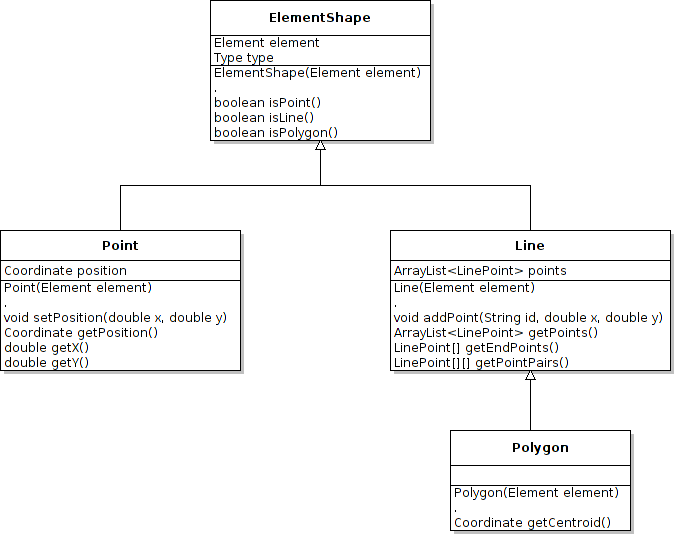
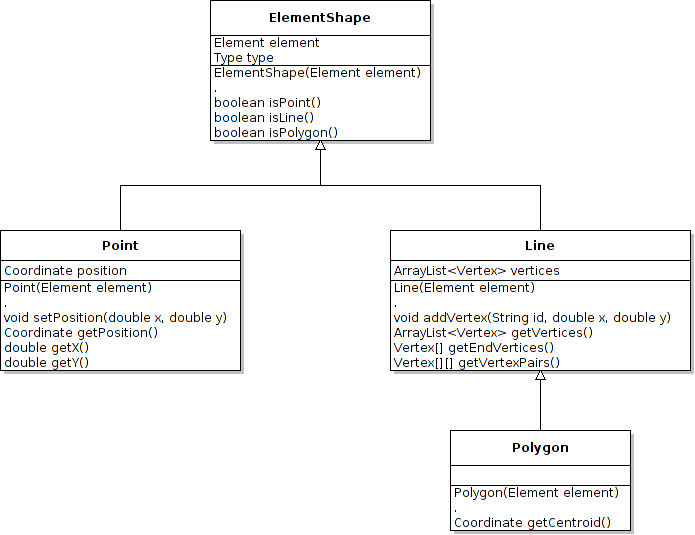
Clean up

diff --git a/src/org/graphstream/geography/Line.java b/src/org/graphstream/geography/Line.java
@@ -49,7 +49,7 @@ public class Line extends ElementShape {
 	/**
 	 * The list of points forming the line.
 	 */
-	protected ArrayList<Vertex> points;
+	protected ArrayList<Vertex> vertices;
 
 	/**
 	 * Instantiate a new line.
@@ -61,7 +61,7 @@ public class Line extends ElementShape {
 		super(element);
 
 		this.type = Type.LINE;
-		this.points = new ArrayList<Vertex>();
+		this.vertices = new ArrayList<Vertex>();
 	}
 
 	/**
@@ -74,13 +74,13 @@ public class Line extends ElementShape {
 	 * @param y
 	 *            The y-axis coordinate of the new point.
 	 */
-	public void addPoint(String id, double x, double y) {
+	public void addVertex(String id, double x, double y) {
 
-		Vertex point = new Vertex(x, y);
+		Vertex vertex = new Vertex(x, y);
 
-		point.setId(id);
+		vertex.setId(id);
 
-		this.points.add(point);
+		this.vertices.add(vertex);
 	}
 
 	/**
@@ -88,9 +88,9 @@ public class Line extends ElementShape {
 	 * 
 	 * @return The list of points.
 	 */
-	public ArrayList<Vertex> getPoints() {
+	public ArrayList<Vertex> getVertices() {
 
-		return this.points;
+		return this.vertices;
 	}
 
 	/**
@@ -99,10 +99,10 @@ public class Line extends ElementShape {
 	 * @return An array of point. The point at index 0 is the starting point,
 	 *         the point at index 1 is the ending point.
 	 */
-	public Vertex[] getEndPoints() {
+	public Vertex[] getEndVertices() {
 
 		return new Vertex[]{
-				this.points.get(0), this.points.get(this.points.size() - 1)
+				this.vertices.get(0), this.vertices.get(this.vertices.size() - 1)
 		};
 	}
 
@@ -114,13 +114,13 @@ public class Line extends ElementShape {
 	 * 
 	 * @return All pairs of successive points.
 	 */
-	public Vertex[][] getPointPairs() {
+	public Vertex[][] getVertexPairs() {
 
-		Vertex[][] pairs = new Vertex[this.points.size() - 1][];
+		Vertex[][] pairs = new Vertex[this.vertices.size() - 1][];
 
-		for(int i = 0, l = this.points.size() - 1; i < l; ++i)
+		for(int i = 0, l = this.vertices.size() - 1; i < l; ++i)
 			pairs[i] = new Vertex[]{
-					this.points.get(i), this.points.get(i + 1)
+					this.vertices.get(i), this.vertices.get(i + 1)
 			};
 
 		return pairs;
@@ -149,11 +149,11 @@ public class Line extends ElementShape {
 
 		Line lShape = (Line)oShape;
 
-		if(lShape.getPoints().size() != this.points.size())
+		if(lShape.getVertices().size() != this.vertices.size())
 			return false;
 
-		for(int i = 0, l = lShape.getPoints().size(); i < l; ++i)
-			if(!lShape.getPoints().get(i).equals(points.get(i)))
+		for(int i = 0, l = lShape.getVertices().size(); i < l; ++i)
+			if(!lShape.getVertices().get(i).equals(vertices.get(i)))
 				return false;
 
 		return true;
@@ -166,8 +166,8 @@ public class Line extends ElementShape {
 
 		s += "Line ";
 
-		for(Vertex point : this.points)
-			s += "(" + point.getPosition().x + "," + point.getPosition().y + ")-";
+		for(Vertex vertex : this.vertices)
+			s += "(" + vertex.getPosition().x + "," + vertex.getPosition().y + ")-";
 
 		return s;
 	}
@@ -177,9 +177,9 @@ public class Line extends ElementShape {
 
 		List<SpatialIndexPoint> spatialIndexPoints = new ArrayList<SpatialIndexPoint>();
 
-		for(Vertex point : this.points) {
+		for(Vertex vertex : this.vertices) {
 
-			SpatialIndexPoint spatialIndexPoint = new SpatialIndexPoint(this, point.getId(), point.getPosition().x, point.getPosition().y);
+			SpatialIndexPoint spatialIndexPoint = new SpatialIndexPoint(this, vertex.getId(), vertex.getPosition().x, vertex.getPosition().y);
 
 			spatialIndexPoints.add(spatialIndexPoint);
 		}

diff --git a/src/org/graphstream/geography/GeoSource.java b/src/org/graphstream/geography/GeoSource.java
@@ -127,8 +127,7 @@ public abstract class GeoSource extends SourceBase {
 	 */
 	public void prepareSpatialIndex() {
 
-		if(this.index == null)
-			this.index = new SpatialIndex();
+		this.index = new SpatialIndex();
 	}
 
 	/**
@@ -162,11 +161,10 @@ public abstract class GeoSource extends SourceBase {
 				element = new Element(id);
 
 				element.setDescriptorUsed(aggregate.getDescriptorUsed(element.getId()));
-				
+
 				this.elements.put(id, element);
 			}
 
-			//System.out.println(id+ " " + entry.getValue().keySet());
 			for(Integer date : entry.getValue().keySet()) {
 
 				element.addDiffAtDate(null, date);
@@ -181,11 +179,8 @@ public abstract class GeoSource extends SourceBase {
 		for(Integer date : dates)
 			this.dates.add(date);
 
-		System.out.println(this.dates);
-
 		/**
-		 * Second pass: go through all files and fill the element states with
-		 * attribute and shape data.
+		 * Second pass: fill the element states with attribute and shape data.
 		 */
 
 		for(Element element : this.elements.values()) {
@@ -257,6 +252,8 @@ public abstract class GeoSource extends SourceBase {
 
 			ElementView elementAtPreviousDate = element.getElementViewAtDate(previousDate);
 
+			// TODO filter!!!
+
 			for(Entry<String, Object> entry : elementAtPreviousDate.getAttributes().entrySet())
 				if(!filteredAttributes.containsKey(entry.getKey()))
 					nextDiff.addRemovedAttribute(entry.getKey());
@@ -303,7 +300,7 @@ public abstract class GeoSource extends SourceBase {
 			List<Vertex> vertices = this.aggregator.getShapeVertices(o);
 
 			for(Vertex vertex : vertices)
-				line.addPoint(vertex.getId(), vertex.getX(), vertex.getY());
+				line.addVertex(vertex.getId(), vertex.getX(), vertex.getY());
 
 			return line;
 		}
@@ -314,7 +311,7 @@ public abstract class GeoSource extends SourceBase {
 			List<Vertex> vertices = this.aggregator.getShapeVertices(o);
 
 			for(Vertex vertex : vertices)
-				polygon.addPoint(vertex.getId(), vertex.getX(), vertex.getY());
+				polygon.addVertex(vertex.getId(), vertex.getX(), vertex.getY());
 
 			return polygon;
 		}

diff --git a/src/org/graphstream/geography/Polygon.java b/src/org/graphstream/geography/Polygon.java
@@ -70,16 +70,16 @@ public class Polygon extends Line {
 
 		Coordinate sum = new Coordinate();
 
-		for(int i = 0; i < this.points.size(); ++i) {
+		for(int i = 0; i < this.vertices.size(); ++i) {
 
-			Coordinate p = this.points.get(i).getPosition();
+			Coordinate p = this.vertices.get(i).getPosition();
 
 			sum.x += p.x;
 			sum.y += p.y;
 		}
 
-		sum.x /= this.points.size();
-		sum.y /= this.points.size();
+		sum.x /= this.vertices.size();
+		sum.y /= this.vertices.size();
 
 		return sum;
 	}
@@ -108,11 +108,11 @@ public class Polygon extends Line {
 		
 		Polygon pShape = (Polygon)oShape;
 
-		if(pShape.getPoints().size() != this.points.size())
+		if(pShape.getVertices().size() != this.vertices.size())
 			return false;
 		
-		for(int i = 0, l = pShape.getPoints().size(); i < l; ++i)
-			if(!pShape.getPoints().get(i).equals(points.get(i)))
+		for(int i = 0, l = pShape.getVertices().size(); i < l; ++i)
+			if(!pShape.getVertices().get(i).equals(vertices.get(i)))
 				return false;
 
 		return true;
@@ -125,7 +125,7 @@ public class Polygon extends Line {
 		
 		s += "Polygon ";
 		
-		for(Vertex point : this.points)
+		for(Vertex point : this.vertices)
 			s += point.getPosition().x + "," + point.getPosition().y + ")-";
 		
 		return s;

diff --git a/src/org/graphstream/geography/osm/GeoSourceOSM_RoadNetwork.java b/src/org/graphstream/geography/osm/GeoSourceOSM_RoadNetwork.java
@@ -145,7 +145,7 @@ public class GeoSourceOSM_RoadNetwork extends GeoSourceOSM {
 
 				Line line = (Line)elementDiff.getShape();
 
-				Vertex[][] pointPairs = line.getPointPairs();
+				Vertex[][] pointPairs = line.getVertexPairs();
 
 				for(int i = 0, l = pointPairs.length; i < l; ++i) {
 
@@ -173,7 +173,7 @@ public class GeoSourceOSM_RoadNetwork extends GeoSourceOSM {
 
 				Line line = (Line)elementAtStep.getShape();
 
-				Vertex[][] pointPairs = line.getPointPairs();
+				Vertex[][] pointPairs = line.getVertexPairs();
 
 				for(int i = 0, l = pointPairs.length; i < l; ++i) {
 

diff --git a/src/org/graphstream/geography/osm/GeoSourceOSM_Neighborhood.java b/src/org/graphstream/geography/osm/GeoSourceOSM_Neighborhood.java
@@ -167,7 +167,7 @@ public class GeoSourceOSM_Neighborhood extends GeoSourceOSM {
 					if(centroid.distance(idPosPair.getValue()) < this.radius)
 						sendEdgeAdded(this.id, id + idPosPair.getKey(), id, idPosPair.getKey(), false);
 
-				// Record the this building has been added to the graph.
+				// Record that this building has been added to the graph.
 
 				placedBuildings.put(id, centroid);
 			}

diff --git a/src/org/graphstream/geography/shp/GeoSourceNavteq.java b/src/org/graphstream/geography/shp/GeoSourceNavteq.java
@@ -196,7 +196,7 @@ public class GeoSourceNavteq extends GeoSourceSHP {
 
 			// Add the two end points to the graph if necessary.
 
-			Vertex[] ends = line.getEndPoints();
+			Vertex[] ends = line.getEndVertices();
 
 			String idNode1 = addNode(ends[0], line, road);
 			String idNode2 = addNode(ends[1], line, road);
